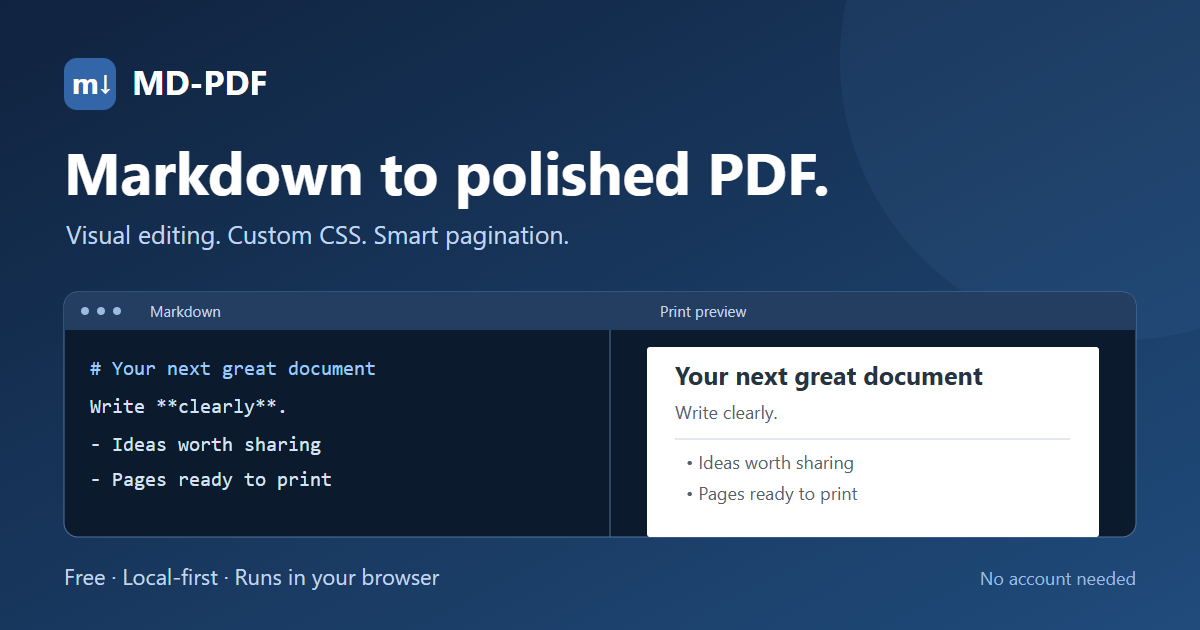
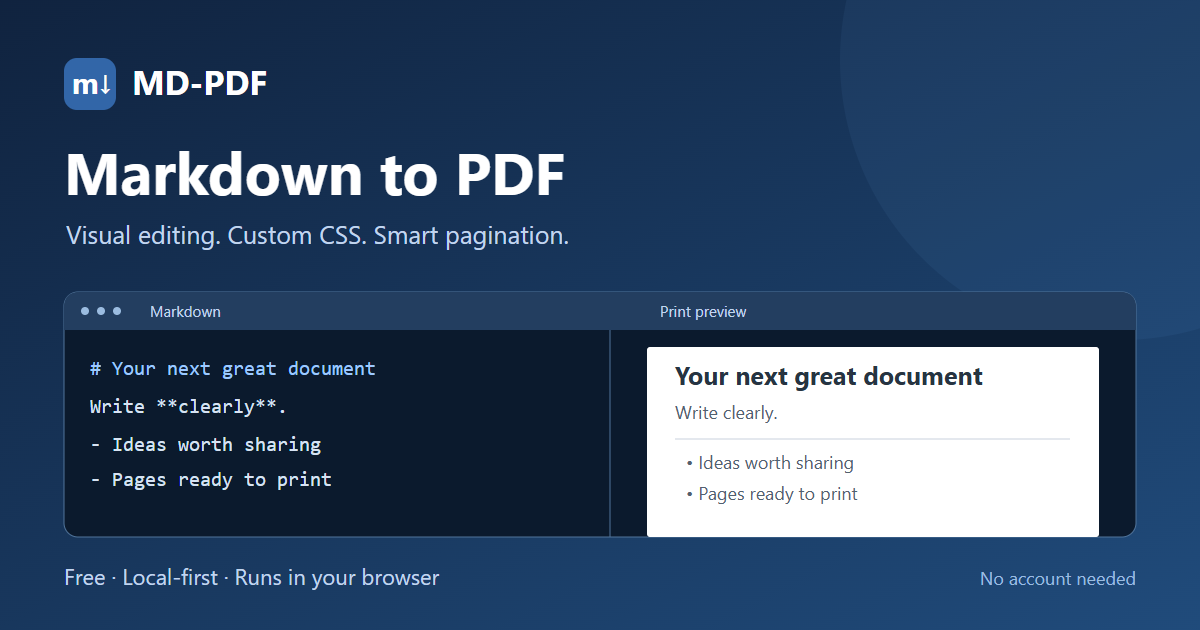
Social preview and metadata

Changed region(s): [[0.37, 0.2413, 0.6783, 0.3317]]

diff --git a/index.html b/index.html
@@ -7,7 +7,7 @@
             name="description"
             content="Edit Markdown visually, customize CSS, and export polished PDFs with smart pagination. MD-PDF is a free, local-first Markdown editor that runs in your browser."
         />
-        <title>MD-PDF — Markdown Editor &amp; PDF Export</title>
+        <title>MD-PDF — Markdown Editor &amp; PDF Printer</title>
         <link rel="canonical" href="https://baalintnagy.github.io/smarter-md-pdf/" />
         <meta name="application-name" content="MD-PDF" />
         <meta name="theme-color" content="#3266a8" />
@@ -16,7 +16,7 @@
         <meta property="og:site_name" content="MD-PDF" />
         <meta property="og:locale" content="en_US" />
         <meta property="og:url" content="https://baalintnagy.github.io/smarter-md-pdf/" />
-        <meta property="og:title" content="MD-PDF — Markdown Editor &amp; PDF Export" />
+        <meta property="og:title" content="MD-PDF — Markdown Editor &amp; PDF Printer" />
         <meta
             property="og:description"
             content="Write visually or edit Markdown source, customize CSS, and export polished PDFs with smart pagination. Free, local-first, and built for your browser."
@@ -30,10 +30,10 @@
         <meta property="og:image:height" content="630" />
         <meta
             property="og:image:alt"
-            content="MD-PDF: Markdown to polished PDF, with a Markdown source panel and a styled document preview."
+            content="MD-PDF: Markdown to PDF, with a Markdown source panel and a styled document preview."
         />
         <meta name="twitter:card" content="summary_large_image" />
-        <meta name="twitter:title" content="MD-PDF — Markdown Editor &amp; PDF Export" />
+        <meta name="twitter:title" content="MD-PDF — Markdown Editor &amp; PDF Printer" />
         <meta
             name="twitter:description"
             content="Write visually or edit Markdown source, customize CSS, and export polished PDFs with smart pagination. Free, local-first, and built for your browser."
@@ -44,7 +44,7 @@
         />
         <meta
             name="twitter:image:alt"
-            content="MD-PDF: Markdown to polished PDF, with a Markdown source panel and a styled document preview."
+            content="MD-PDF: Markdown to PDF, with a Markdown source panel and a styled document preview."
         />
         <script type="application/ld+json">
             {
